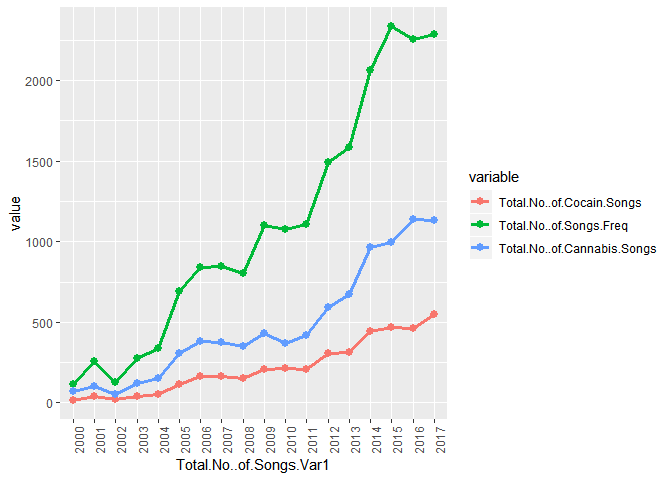
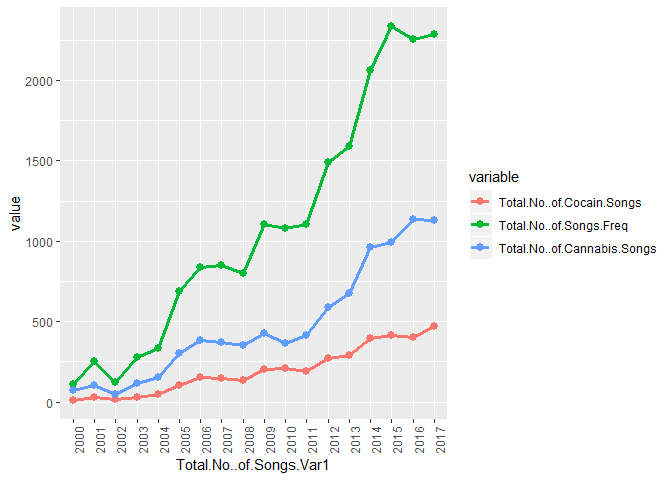
Add files via upload
readme pictures

diff --git a/readme.md b/readme.md
@@ -49,7 +49,7 @@ library(reshape2)
     ## Warning: package 'reshape2' was built under R version 3.5.3
 
 ``` r
-lyrics_list <- read.csv2("lyrics_list_drugcheck.csv", stringsAsFactors = F)[,-c(1:2)]
+lyrics_list <- read.csv2("lyrics_list_drugcheck1.csv", stringsAsFactors = F)[,-c(1:2)]
 ```
 
 ------------------------------------------------------------------------
@@ -96,7 +96,7 @@ totalMelted <- melt(total_mentions, id.var='Total.No..of.Songs.Var1')
 ggplot(totalMelted, aes(x=Total.No..of.Songs.Var1, y=value, col=variable, group= variable)) + geom_line(size=1.2)  + geom_point(size=2.5) + theme(axis.text.x = element_text(angle = 90, hjust = 1))
 ```
 
-![](https://github.com/kilbu/RauschgiftInRap/blob/master/unnamed-chunk-5-1.png)
+![](DrogenkonsumRap_files/figure-markdown_github/unnamed-chunk-5-1.png)
 
 Die Suche nach Drogen-Namen wurde vorerst nur für Kokain und Cannabis durchgeführt. Es ist in diesem Graphen erkennbar, dass die Anzahl der Erwähnungen von Kokain (rote Linie) eindeutig eine steigende Tendenz hat. Ebenso verhält es sich mit Cannabis (blau). Allerdings kann man an der grünen Linie auch sehen, dass die Anzahl der Raplieder sowieso steigt. Daher kann der Anstieg der erwähnten Rauschmittel auch durch die allgemeine Zunahme der Lieder zustande kommen.   Die relativen Zahlen für jedes Jahr (also die Anzahl der Lieder mit Drogeninhalt im Verhältnis zur Gesamtzahl der Lieder in diesem Jahr) zeigt:
 
@@ -112,7 +112,7 @@ relativeMelted <- melt(relative_mentions, id.var='Year')
 ggplot(relativeMelted, aes(x=Year, y=value, col=variable, group= variable))  + geom_line(size=1.2)  + geom_point(size=2.5) + theme(axis.text.x = element_text(angle = 90, hjust = 1))
 ```
 
-![](https://github.com/kilbu/RauschgiftInRap/blob/master/unnamed-chunk-6-1.png)
+![](DrogenkonsumRap_files/figure-markdown_github/unnamed-chunk-6-1.png)
 
 Für Kokain sehen wir hier, dass die Anzahl der Lieder, in denen es erwähnt wird auch relativ gesehen eine steigende Tendenz hat. Zwar sank der Wert in manchen Jahren (z.B. 2002, 2003 und 2011), trotzdem zeigt der Graph im ganzen aufwärts.  
 
@@ -131,7 +131,7 @@ polizeiMelted <- melt(polizeistatistiken, id.var='Year')
 ggplot(polizeiMelted, aes(x=Year, y=value, col=variable, group= variable)) + geom_line(size=1.2) + geom_point(size=2.5) + theme(axis.text.x = element_text(angle = 90, hjust = 1))
 ```
 
-![](https://github.com/kilbu/RauschgiftInRap/blob/master/unnamed-chunk-7-1.png)
+![](DrogenkonsumRap_files/figure-markdown_github/unnamed-chunk-7-1.png)
 
 Man sieht, dass die Anzahl der erfassten Drogendelikte für Kokain (und Crack) im Beobachtungszeitraum relativ gering und konstant ist. Die Zahl der erfassten Cannabisdelikte variiert deutlich mehr und ist vor allem in den späteren Jahren steigend.  
 
@@ -153,26 +153,26 @@ summary(lm(df$relative_coke_mentions ~ df$Kokain_Faelle))
     ## 
     ## Residuals:
     ##      Min       1Q   Median       3Q      Max 
-    ## -0.05789 -0.01417  0.00222  0.01413  0.07325 
+    ## -0.07233 -0.00891  0.00769  0.01573  0.06183 
     ## 
     ## Coefficients:
     ##                     Estimate  Std. Error t value Pr(>|t|)    
-    ## (Intercept)       0.27967677  0.05552787    5.04  0.00012 ***
-    ## df$Kokain_Faelle -0.00000776  0.00000441   -1.76  0.09791 .  
+    ## (Intercept)       0.27198871  0.06218091    4.37  0.00047 ***
+    ## df$Kokain_Faelle -0.00000879  0.00000494   -1.78  0.09437 .  
     ## ---
     ## Signif. codes:  0 '***' 0.001 '**' 0.01 '*' 0.05 '.' 0.1 ' ' 1
     ## 
-    ## Residual standard error: 0.029 on 16 degrees of freedom
-    ## Multiple R-squared:  0.162,  Adjusted R-squared:  0.109 
-    ## F-statistic: 3.09 on 1 and 16 DF,  p-value: 0.0979
+    ## Residual standard error: 0.0325 on 16 degrees of freedom
+    ## Multiple R-squared:  0.165,  Adjusted R-squared:  0.113 
+    ## F-statistic: 3.16 on 1 and 16 DF,  p-value: 0.0944
 
 ``` r
 confint(lm(df$relative_coke_mentions ~ df$Kokain_Faelle))
 ```
 
     ##                        2.5 %      97.5 %
-    ## (Intercept)       0.16196295 0.397390601
-    ## df$Kokain_Faelle -0.00001712 0.000001599
+    ## (Intercept)       0.14017107 0.403806353
+    ## df$Kokain_Faelle -0.00001927 0.000001689
 
 Das Ergebnis dieser Regression lässt zuerst vermuten, dass zumindest der polizeilich erfasste Kokainkonsum im betreffenden Jahr keinen Einfluss auf die Erwähnung von Kokain in Raptexten hat. Die Fallzahlen des BKA zeigen zwar einen statistisch minimal signifikanten Einfluss. Jedoch ist dessen Höhe verschwindend gering und eine nähere Betrachtung der Konfidenzintervalle zeigt, dass nicht mit hinreichender Sicherheit gesagt werden kann, ob dieser Effekt positiv oder negativ ist. Die durch das Modell erklärte Varianz ist ebenfalls recht gering.  
 
@@ -209,22 +209,22 @@ summary(lm(df$relative_coke_mentions ~ df$Kokain_Faelle + df$Kokain_Faelle_t_min
     ##     df$coke_mentions_t_minus_1)
     ## 
     ## Residuals:
-    ##       Min        1Q    Median        3Q       Max 
-    ## -0.030330 -0.012350 -0.000534  0.015040  0.030268 
+    ##      Min       1Q   Median       3Q      Max 
+    ## -0.04679 -0.00901  0.00277  0.00871  0.02257 
     ## 
     ## Coefficients:
-    ##                               Estimate  Std. Error t value Pr(>|t|)   
-    ## (Intercept)                 0.03748965  0.08283272    0.45   0.6583   
-    ## df$Kokain_Faelle            0.00000138  0.00000466    0.30   0.7721   
-    ## df$Kokain_Faelle_t_minus_1 -0.00000047  0.00000540   -0.09   0.9320   
-    ## df$coke_mentions_t_minus_1  0.76839487  0.22171114    3.47   0.0042 **
+    ##                                Estimate   Std. Error t value Pr(>|t|)    
+    ## (Intercept)                 0.029928384  0.068001987    0.44  0.66709    
+    ## df$Kokain_Faelle            0.000002366  0.000004743    0.50  0.62623    
+    ## df$Kokain_Faelle_t_minus_1 -0.000000791  0.000004932   -0.16  0.87497    
+    ## df$coke_mentions_t_minus_1  0.735770363  0.171391335    4.29  0.00087 ***
     ## ---
     ## Signif. codes:  0 '***' 0.001 '**' 0.01 '*' 0.05 '.' 0.1 ' ' 1
     ## 
-    ## Residual standard error: 0.0186 on 13 degrees of freedom
+    ## Residual standard error: 0.0185 on 13 degrees of freedom
     ##   (1 observation deleted due to missingness)
-    ## Multiple R-squared:  0.606,  Adjusted R-squared:  0.515 
-    ## F-statistic: 6.67 on 3 and 13 DF,  p-value: 0.00576
+    ## Multiple R-squared:  0.665,  Adjusted R-squared:  0.588 
+    ## F-statistic: 8.61 on 3 and 13 DF,  p-value: 0.00209
 
 Dieses Modell scheint schon deutlich besser geeignet zu sein, um die verstärkte Erwähnung von Kokain im deutschen Rap zu erklären.  
 
